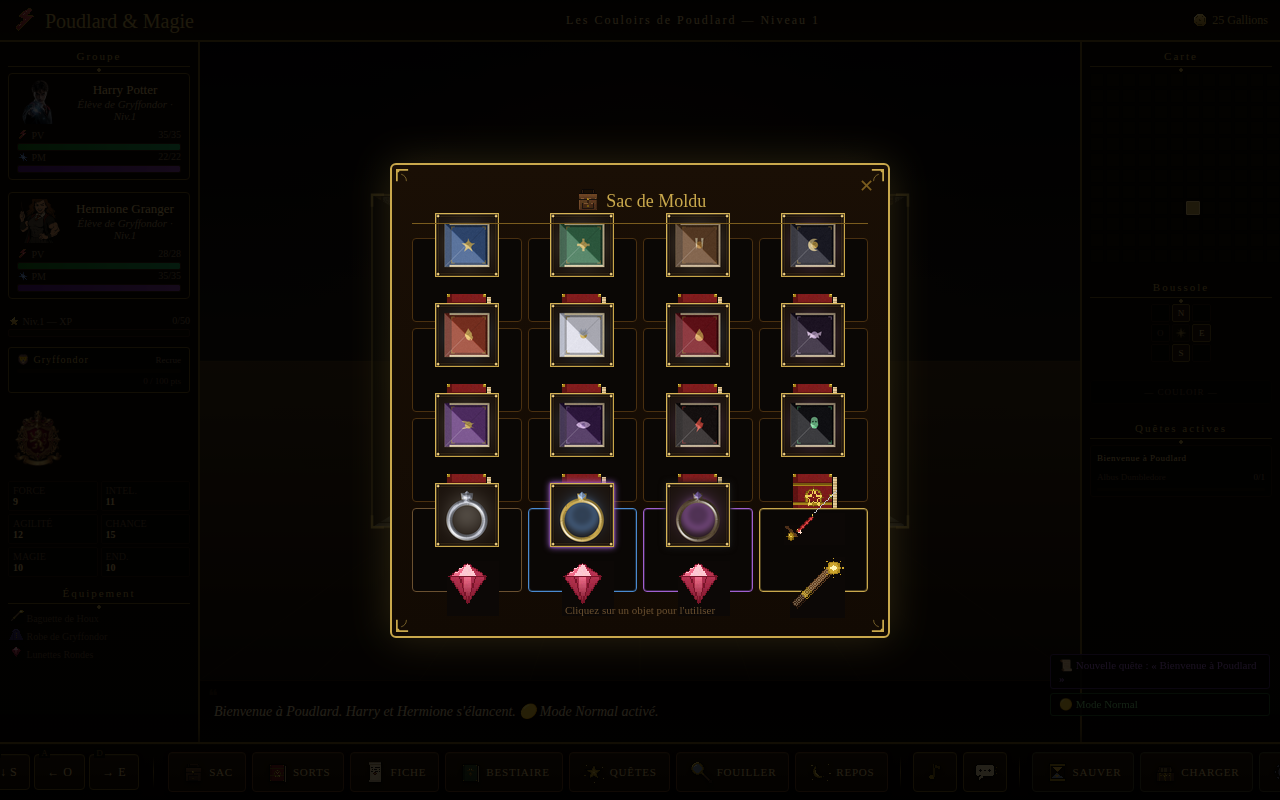
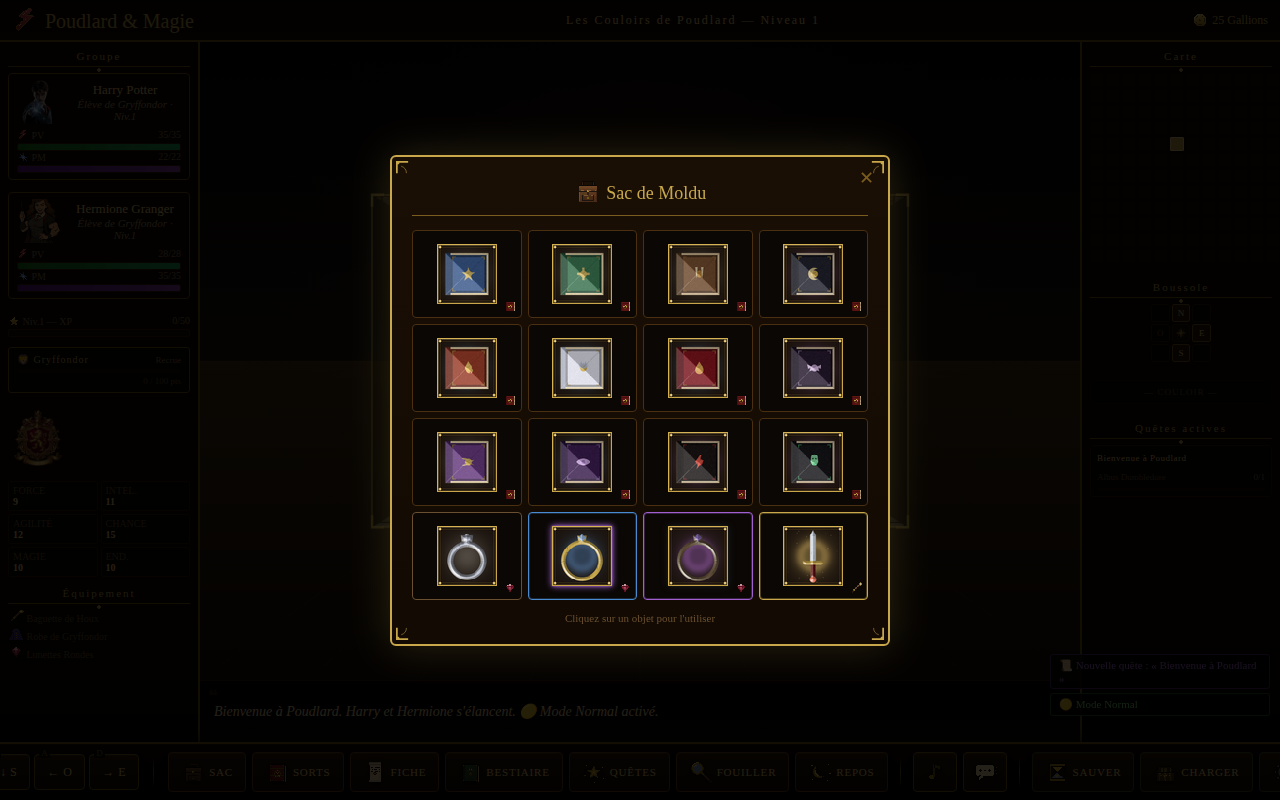
fix(inventory): rendu desktop propre — typeLabel en badge + sword painterly
3 bugs corrigés sur l'intégration painterly :

1. typeLabel débordait sous chaque cellule
   .inv-slot avait height:84px mais le contenu (icône 64px + typeLabel
   ~14px + padding) dépassait. Sur desktop, le typeLabel passe
   maintenant en position absolue (bottom:4px right:4px, opacity 0.75,
   14×14px). Layout uniforme, badge discret en coin bas-droit.

2. sword_gryff / wand1 / wand2 utilisaient encore le système tinted
   2-calques legacy au lieu du PNG painterly
   getItemIconHtml préférait `item.tinted` avant ITEM_ICON_NEW_REGISTRY.
   Nouvelle priorité : si l'item est dans le registre painterly, on
   l'utilise même s'il a `tinted:true`. Le système tinted reste dispo
   en fallback pour les items hors registre painterly (et est toujours
   testable via _getTintedItemHtml direct).

3. Cells de hauteur variable → uniformisation
   .inv-slot passe à min-height:88px + height:auto + padding:8px.
   Icon réduit de 64px à 60px pour donner du breathing room aux
   silhouettes circulaires (rings).

tests/smoke.js — Scénario 24 (tint CSS) appelle maintenant
_getTintedItemHtml directement plutôt que getItemIconHtml, pour
tester le système tinted en isolation. Scénario 25 T5 accepte aussi
le nouveau chemin painterly.

Captures : tools/_shots/inv-desktop-zoom.png (crop sur la grille)
montre 12 livres + 3 anneaux + épée Gryffondor tous nets et uniformes.

node tests/smoke.js ✅ (tous scénarios passent)

Changed region(s): [[0.3125, 0.1875, 0.6875, 0.8125], [0.9062, 0.25, 0.9375, 0.2812], [0.9062, 0.1562, 0.9375, 0.1875]]

diff --git a/tests/smoke.js b/tests/smoke.js
@@ -2227,7 +2227,8 @@ async function scenarioEquipmentAndStatusIcons() {
 
   // T5 : fiche perso — slot avec item équipé utilise le sprite per-item.
   // wand1 est passé sur l'archi tint 2-calques (saule), donc on accepte
-  // soit l'`<img>` du registry legacy, soit le wrapper `tinted-icon`.
+  // soit l'`<img>` du registry legacy, soit le wrapper `tinted-icon`,
+  // soit le nouveau pipeline painterly (icons_new/wand1_<size>.png).
   const t5 = await page.evaluate(() => {
     const wand = ITEMS.find(i => i.id === 'wand1');
     player.equipped.wand = wand;
@@ -2237,11 +2238,12 @@ async function scenarioEquipmentAndStatusIcons() {
     return {
       hasPerItemImg:    /img\/icons\/items\/wand1\.png/.test(html),
       hasTintedWrapper: /tinted-icon[^"]*tint-willow/.test(html),
+      hasPainterly:     /icons_new\/wand1_\d+\.png/.test(html),
     };
   });
   console.log('  T5 fiche per-item →', t5);
-  assert(t5.hasPerItemImg || t5.hasTintedWrapper,
-         'wand1 équipé doit utiliser items/wand1.png OU wrapper tinted-icon');
+  assert(t5.hasPerItemImg || t5.hasTintedWrapper || t5.hasPainterly,
+         'wand1 équipé doit utiliser items/wand1.png, tinted-icon ou icons_new/wand1_*.png');
 
   if (errors.length) {
     errors.forEach(e => console.log('  ⚠ ', e));
@@ -2784,18 +2786,22 @@ async function scenarioTintCss() {
     if (!sword || !sword.tinted) return { fail: 'sword_gryff sans flag tinted' };
     if (!wand  || !wand.tinted)  return { fail: 'wand1 sans flag tinted' };
 
-    const html = getItemIconHtml(sword, 'ui-icon-xl');
+    // Le pipeline painterly (étape 9) supplante le système tinted dans
+    // getItemIconHtml. Pour tester le système tinted en isolation on
+    // appelle directement _getTintedItemHtml — il reste utilisé comme
+    // fallback pour les items tinted hors ITEM_ICON_NEW_REGISTRY.
+    const html = _getTintedItemHtml(sword, 'ui-icon-xl');
     const tmp  = document.createElement('div');
     tmp.innerHTML = html;
     const root = tmp.firstChild;
 
-    const wandHtml = getItemIconHtml(wand, 'ui-icon-xl');
+    const wandHtml = _getTintedItemHtml(wand, 'ui-icon-xl');
     const wandTmp  = document.createElement('div');
     wandTmp.innerHTML = wandHtml;
     const wandRoot = wandTmp.firstChild;
 
-    // Test injection : tint inconnu → fallback path normal (pas d'injection)
-    const evil = getItemIconHtml({ ...sword, tint: 'evil); background: url(data:x' }, 'ui-icon-md');
+    // Test injection : tint inconnu → null (whitelist bloque l'injection)
+    const evil = _getTintedItemHtml({ ...sword, tint: 'evil); background: url(data:x' }, 'ui-icon-md') || '';
 
     return {
       // épée (palette métaux)

diff --git a/css/style.css b/css/style.css
@@ -815,12 +815,24 @@ body {
 
 /* Desktop (souris) : le nom passe en tooltip au hover, l'icône occupe
  * toute la cellule. Sur mobile (hover: none), on garde le nom visible
- * sous l'icône — le tap-preview JS s'occupe d'afficher la tooltip riche. */
+ * sous l'icône — le tap-preview JS s'occupe d'afficher la tooltip riche.
+ * Le badge de slot (inv-type-badge) passe en absolu coin bas-droit pour
+ * ne plus déborder hors de la cellule. */
 @media (hover: hover) and (min-width: 701px) {
-  .inv-slot { height: 84px; padding: 6px; }
+  .inv-slot {
+    min-height: 88px; height: auto;
+    padding: 8px;
+    position: relative;
+  }
   .inv-slot .item-name { display: none; }
+  .inv-slot .item-icon { display: flex; align-items: center; justify-content: center; }
   .section-inv .inv-slot .ui-icon,
-  .inv-slot .ui-icon { width: 64px; height: 64px; }
+  .inv-slot .ui-icon { width: 60px; height: 60px; }
+  .inv-slot .inv-type-badge {
+    position: absolute; bottom: 4px; right: 4px; margin: 0 !important;
+    opacity: 0.75; pointer-events: none;
+  }
+  .inv-slot .inv-type-badge .ui-icon { width: 14px; height: 14px; }
 }
 /* Mobile : tap-preview montre la tooltip riche, comme hover sur desktop */
 .inv-slot.tap-preview .item-tooltip { opacity: 1; visibility: visible; }

diff --git a/js/item-icons.js b/js/item-icons.js
@@ -189,11 +189,17 @@ function getItemIconSrc(item) {
 // d'une même famille — voir .claude/plans/equipment-extended.md §2.4.
 function getItemIconHtml(item, sizeClass) {
   const cls = sizeClass || 'ui-icon-md';
+  // Le pipeline painterly (étape 9) supplante le système tinted 2-calques
+  // pour les items mappés : si l'id figure dans ITEM_ICON_NEW_REGISTRY,
+  // on utilise directement le PNG painterly (déjà coloré par recipe).
+  const hasPainterly = item && item.id
+    && typeof ITEM_ICON_NEW_REGISTRY !== 'undefined'
+    && ITEM_ICON_NEW_REGISTRY[item.id];
   // Architecture tint 2-calques : si l'item a `tinted: true` et déclare
   // un blade (silhouette teintable) + un hilt (overlay détails fixes),
   // on rend un wrapper <span> avec deux layers superposés. Voir
   // css/style.css `.tinted-icon` et img/icons/_tint_demo.html.
-  if (item && item.tinted) {
+  if (item && item.tinted && !hasPainterly) {
     const html = _getTintedItemHtml(item, cls);
     if (html) return html;
   }

diff --git a/js/inventory.js b/js/inventory.js
@@ -147,7 +147,7 @@ function renderInventory(battleMode) {
         ? getEquipmentSlotIconHtml(slotKey, 'ui-icon-sm')
         : '';
       const typeLabel = (isEquip || isSpellbook)
-        ? `<div style="font-size:9px;color:${isSpellbook ? '#8060c0' : '#b08040'};margin-top:1px">${typeIcon}</div>`
+        ? `<div class="inv-type-badge" style="font-size:9px;color:${isSpellbook ? '#8060c0' : '#b08040'};margin-top:1px">${typeIcon}</div>`
         : '';
       // Bordure de rareté inv-slot ↔ classe rarity-*
       if (item.rarity) div.classList.add(`rarity-${item.rarity}`);
